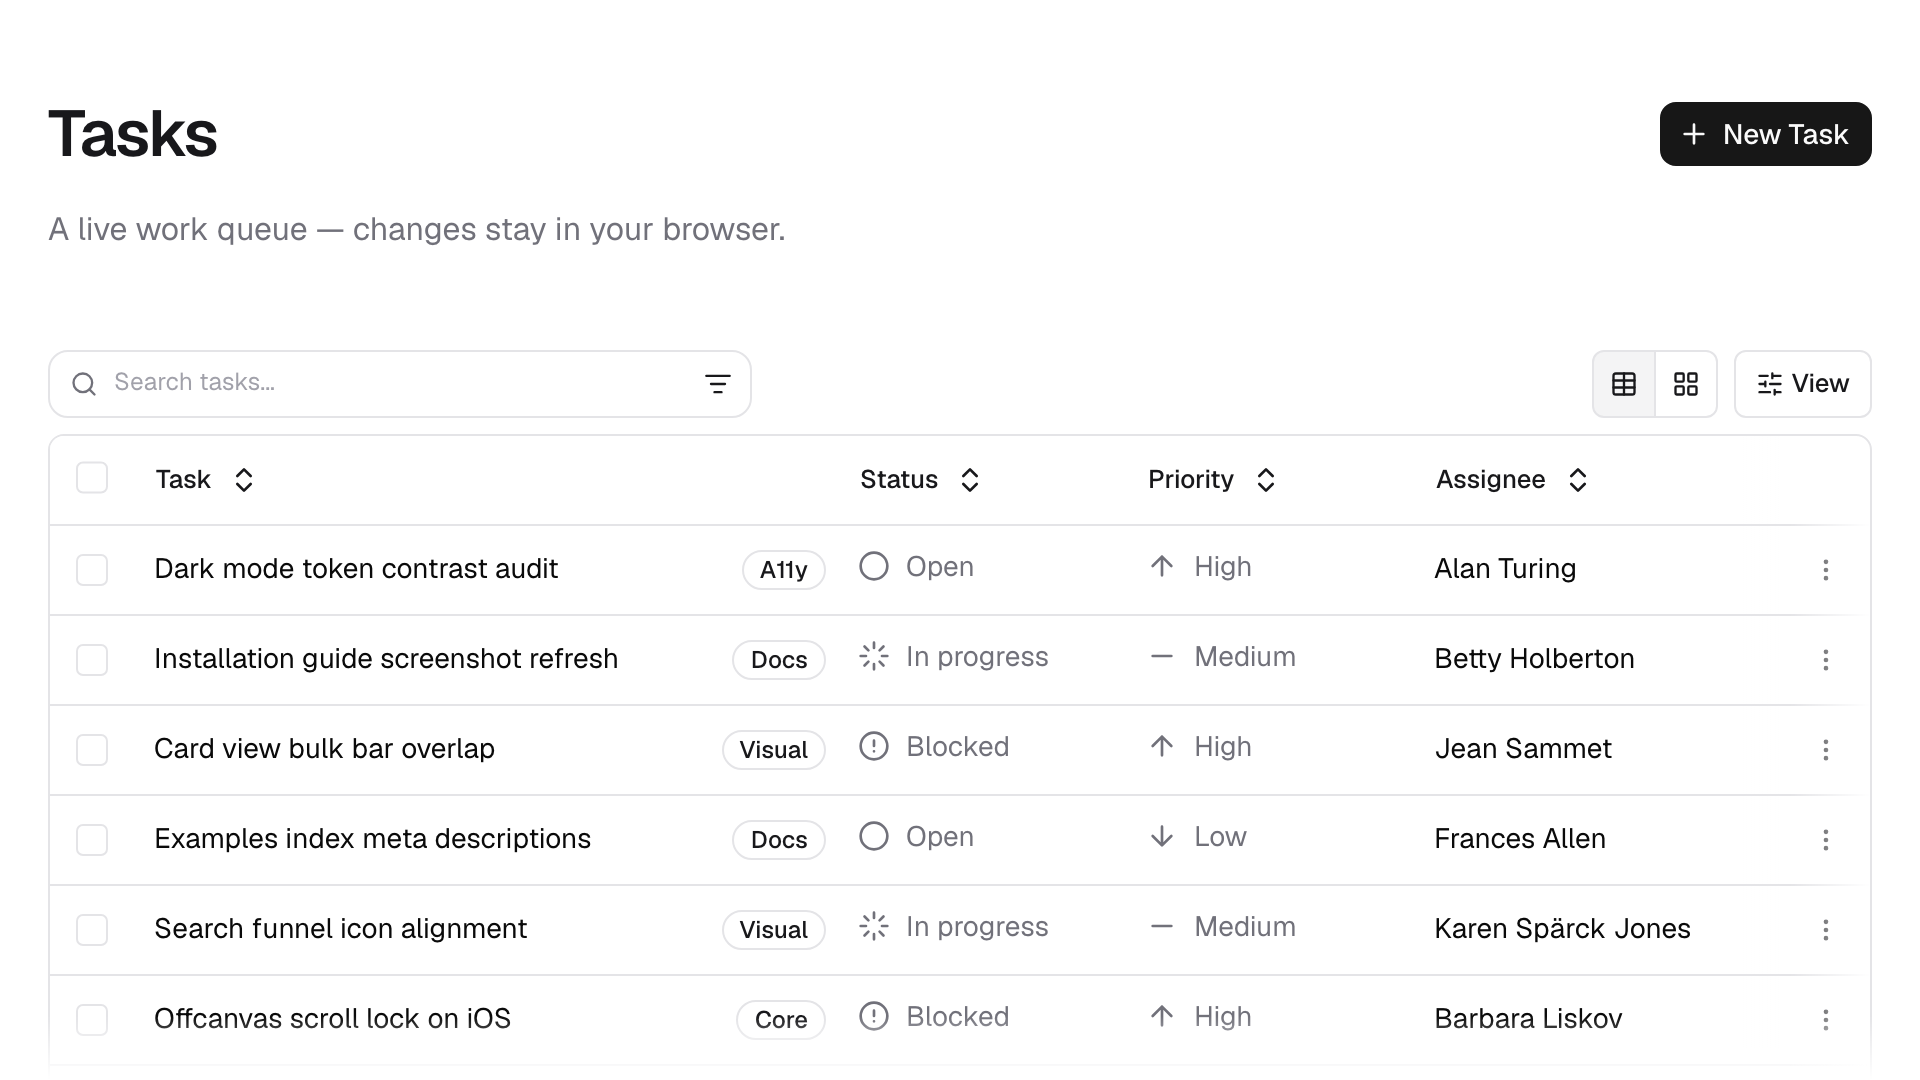
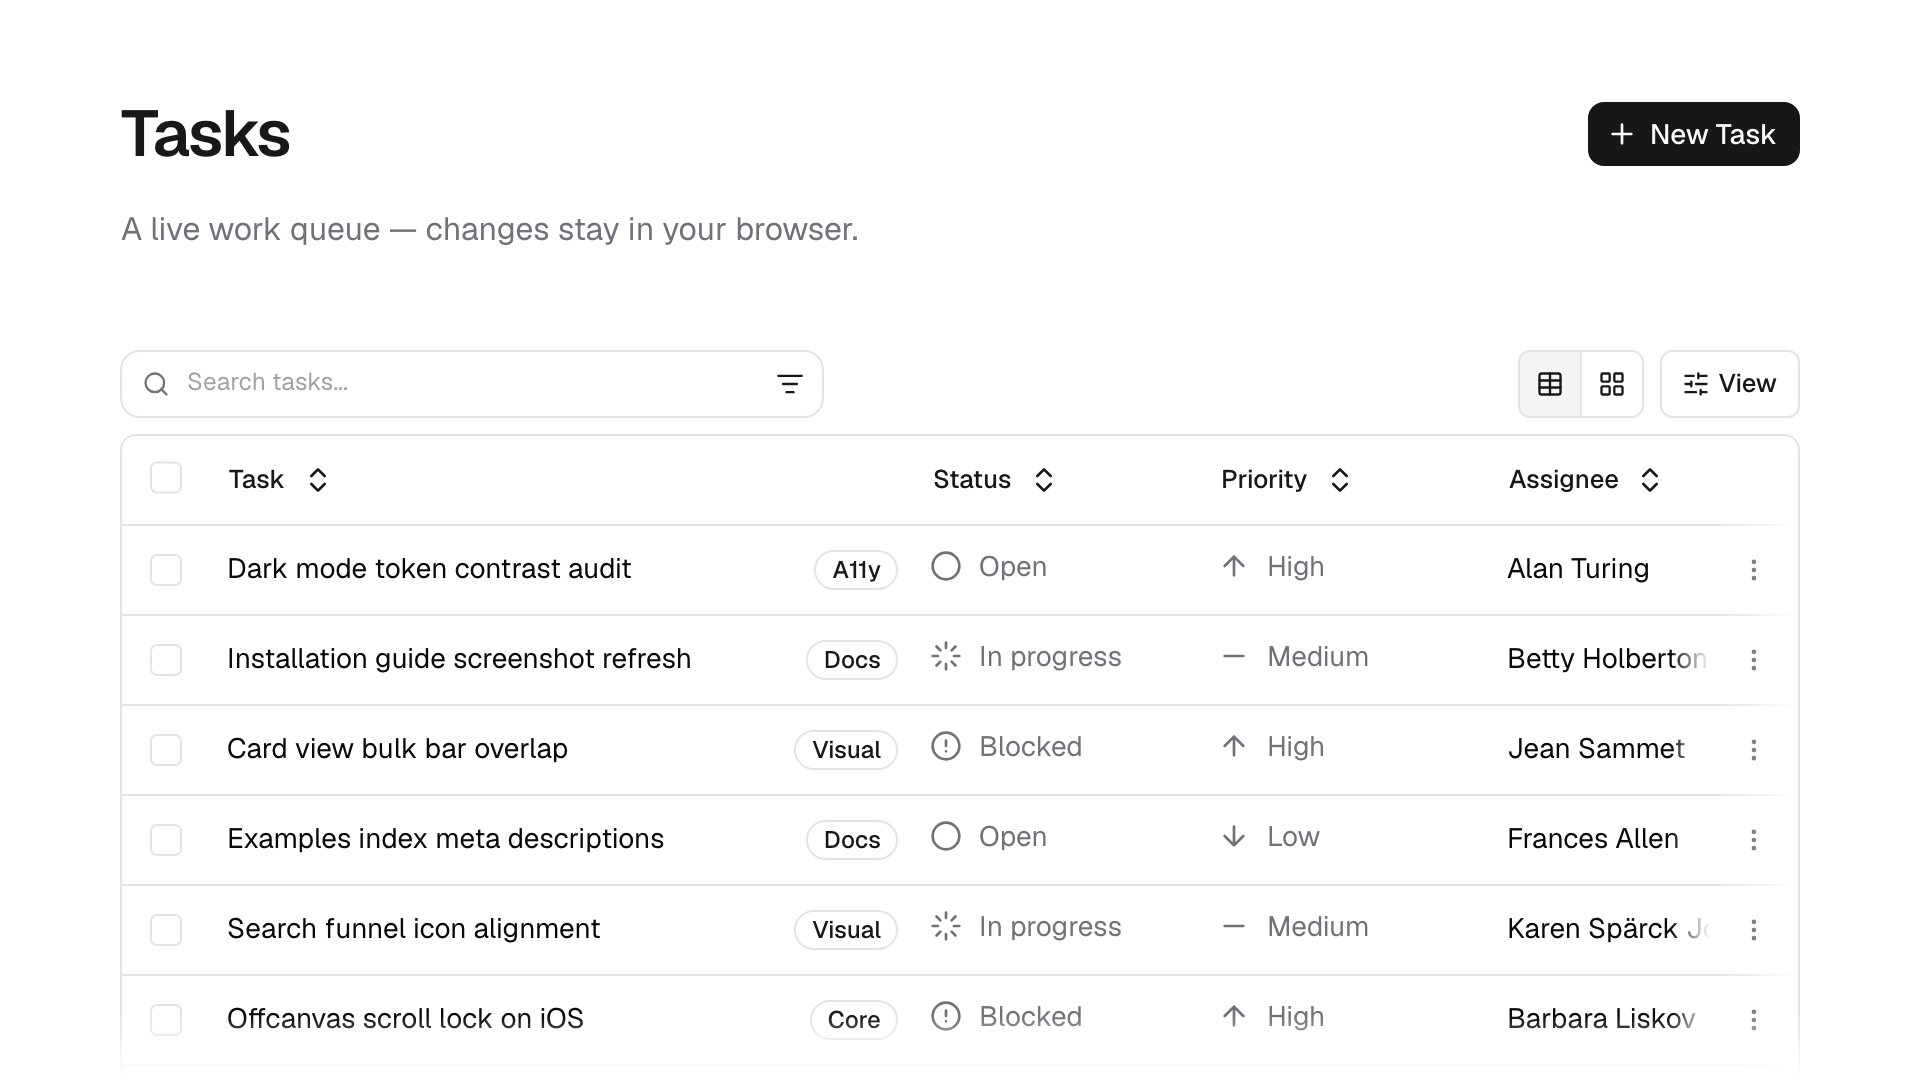
chore(examples): add breathing room to Dashboard/Marketing/Settings previews
The catalog card previews for Dashboard, Marketing, and Settings
examples filled the capture frame edge-to-edge, reading cramped once
scaled down to a thumbnail. Inset the app content ~4% per side during
capture (about 12% total whitespace) via a scoped .moo-examples-page
padding-inline in the preview script's chrome-hiding CSS; the Settings
crop formula already centers on the content, so the extra inset carries
through there too. Auth previews are untouched (full-bleed centered by
design). Regenerates the seven affected previews.

diff --git a/scripts/generate_example_previews.py b/scripts/generate_example_previews.py
@@ -45,6 +45,13 @@ HIDE_CHROME_CSS = """
 header.moo-catalog__header,
 .moo-auth-page__footer,
 .moo-examples-footer { display: none !important; }
+
+/* Dashboard/Marketing/Settings examples fill the full capture width, which
+   reads cramped once scaled down to a card thumbnail. Inset the app content
+   ~4% per side (about 12% total whitespace) so the preview breathes; the
+   Settings crop formula below already centers the crop on the content, so
+   the extra inset carries through there too. */
+.moo-examples-page { padding-inline: 4% !important; }
 """
 
 EXAMPLE_SLUGS = (
